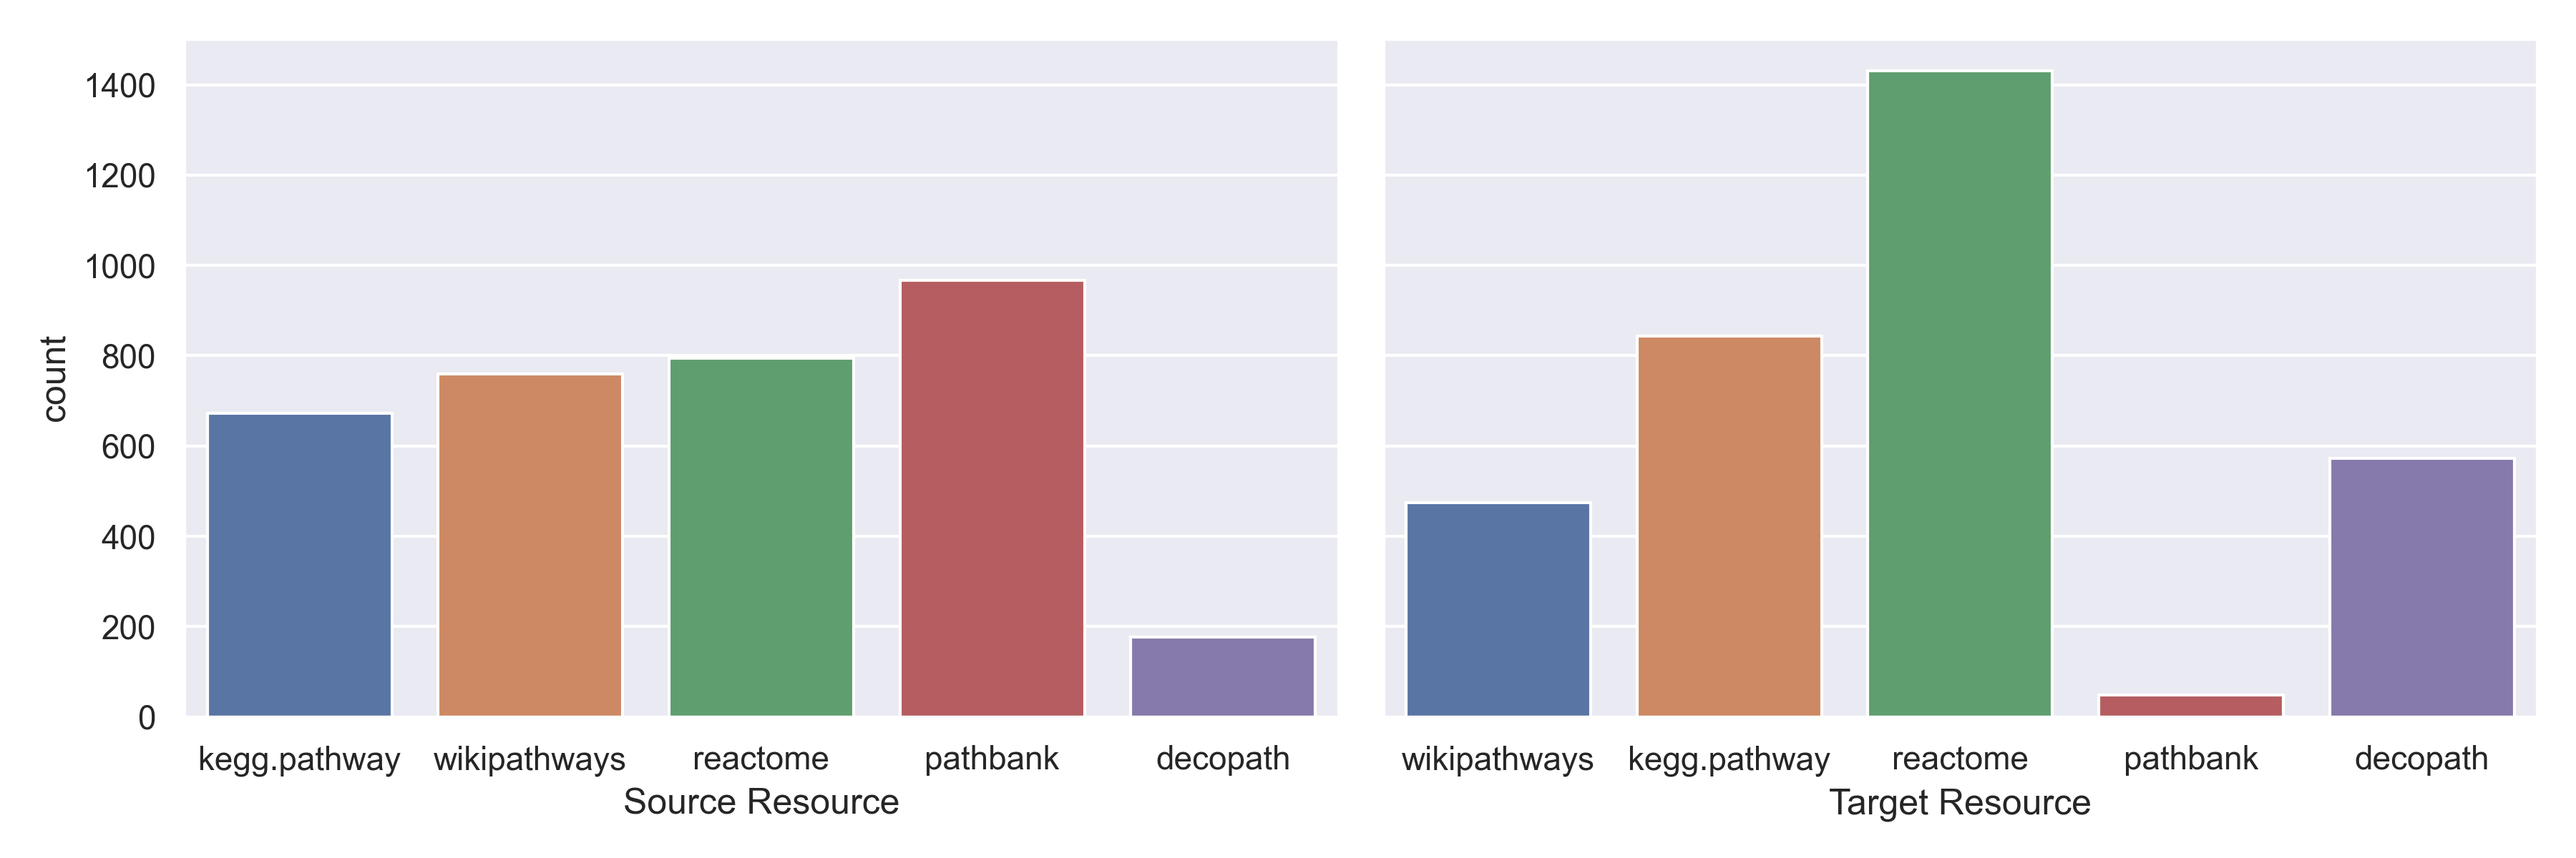
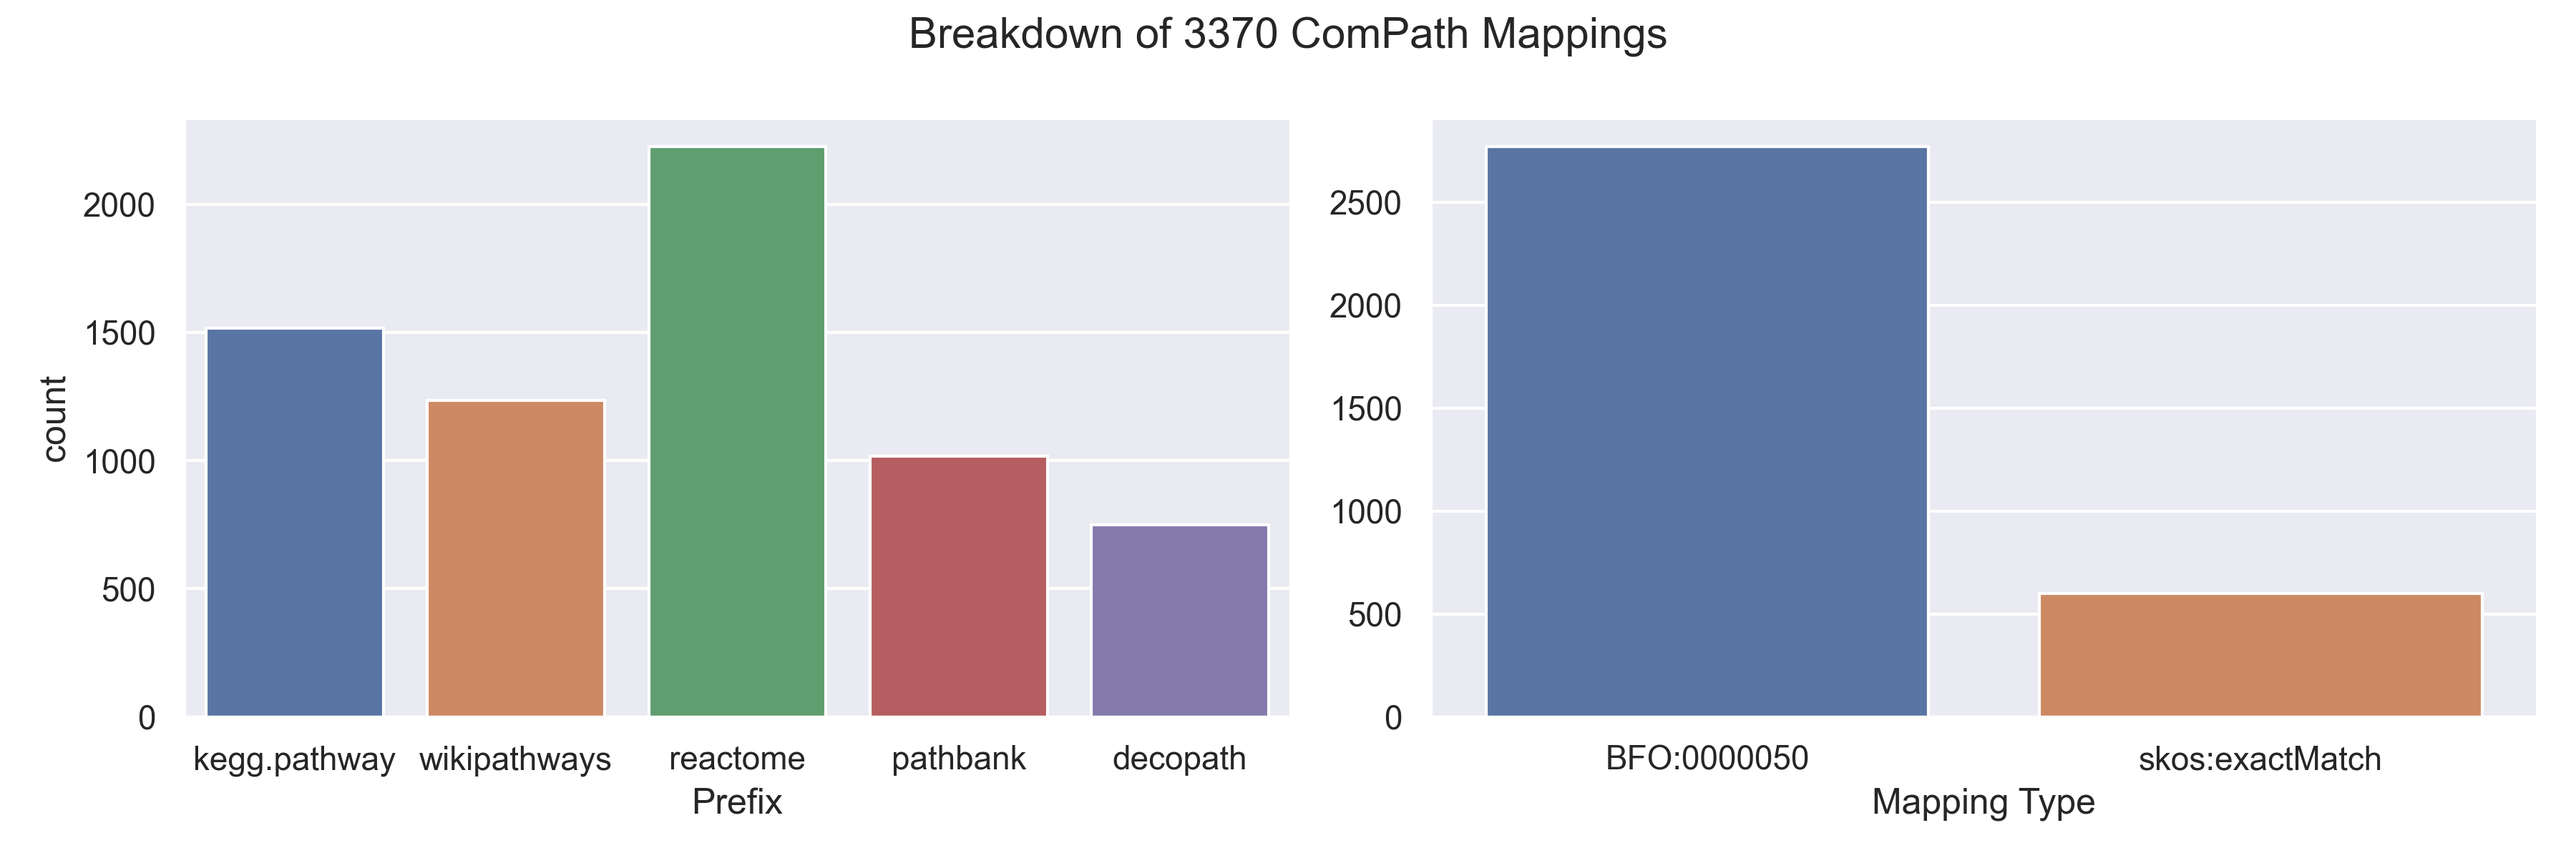
Update image output

diff --git a/src/compath_resources/summarize.py b/src/compath_resources/summarize.py
@@ -2,10 +2,9 @@
 
 """Generate charts for the ComPath GitHub Pages site."""
 
-from collections import Counter
-
 import click
 import matplotlib.pyplot as plt
+import pandas as pd
 import seaborn as sns
 from more_click import verbose_option
 
@@ -22,16 +21,15 @@ __all__ = [
 def charts():
     """Generate the summary for ComPath."""
     sns.set_theme(style="darkgrid")
-    df = get_df(include_reactome_hierarchy=False, include_decopath=True)
-    counter = Counter()
-    for source_prefix, _source_id, _source_name, _mapp, target_prefix, _target_id, _target_name in df.values:
-        counter[source_prefix] += 1
-        counter[target_prefix] += 1
+    df = get_df(include_reactome_hierarchy=False, include_decopath=True, include_special=True)
+    prefix_df = pd.concat([df['Source Resource'], df['Target Resource']]).to_frame()
+    prefix_df.columns = ['Prefix']
 
-    fig, axes = plt.subplots(1, 2, figsize=(12, 4), sharey=True)
-    sns.countplot(data=df, x='Source Resource', ax=axes[0])
-    sns.countplot(data=df, x='Target Resource', ax=axes[1])
+    fig, axes = plt.subplots(1, 2, figsize=(12, 4))
+    sns.countplot(data=prefix_df, x='Prefix', ax=axes[0])
+    sns.countplot(data=df, x='Mapping Type', ax=axes[1])
     axes[1].set_ylabel('')
+    plt.suptitle(f'Breakdown of {len(df.index)} ComPath Mappings')
     plt.tight_layout()
     plt.savefig(IMG_DIRECTORY / 'prefixes.png', dpi=300)
     plt.close(fig)

diff --git a/src/compath_resources/resources/__init__.py b/src/compath_resources/resources/__init__.py
@@ -21,11 +21,16 @@ REACTOME_HIERARCHICAL_MAPPINGS_PATH = RESOURCES / 'reactome_hierarchy.tsv'
 DECOPATH_PATH = RESOURCES / 'decopath.tsv'
 
 
-def get_df(include_reactome_hierarchy: bool = False, include_decopath: bool = False) -> pd.DataFrame:
+def get_df(
+    include_reactome_hierarchy: bool = False,
+    include_decopath: bool = False,
+    include_special: bool = False,
+) -> pd.DataFrame:
     """Get all dataframes.
 
     :param include_reactome_hierarchy: include Reactome hierarchy?
     :param include_decopath: include decopath?
+    :param include_special: include special mappings (inside same db)?
     :return: dataframe with ComPath dataset
     """
     dfs = [
@@ -35,8 +40,9 @@ def get_df(include_reactome_hierarchy: bool = False, include_decopath: bool = Fa
         get_pathbank_kegg_df(),
         get_pathbank_reactome_df(),
         get_pathbank_reactome_df(),
-        get_special_mappings_df(),
     ]
+    if include_special:
+        dfs.append(get_special_mappings_df())
 
     if include_reactome_hierarchy:
         dfs.append(get_reactome_hierarchy_df())
